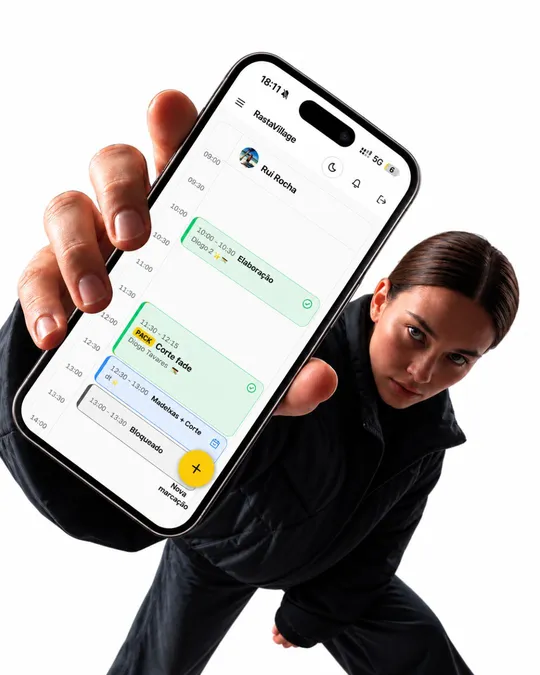
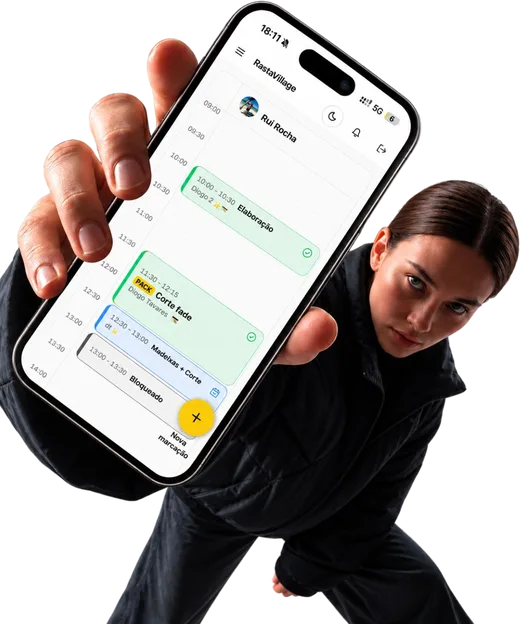
Site: as duas secções sem caixa — a fotografia recortada assenta no fundo; os dois tipos sem cartão nem desconto, com «dois tipos, uma conta»
Claude-Session: https://claude.ai/code/session_01ESiyGJ3vPYy4diqd7vefik

diff --git a/src/index.css b/src/index.css
@@ -1672,29 +1672,28 @@ html, body {
 /* Dois tipos no mesmo espaço: o bloco a seguir aos planos. */
 .pd-misto { margin-top: 10px; }
 .pd-misto a { color: var(--cv-ink); border-bottom: 1px solid var(--cv-linha); text-decoration: none; }
-/* Dois tipos no mesmo espaço: barbearia + salão = uma app. */
-.dt { scroll-margin-top: 90px; margin-top: 44px; padding: 36px 24px; border-radius: 24px; background: var(--cv-card); border: 1px solid var(--cv-linha); }
+/* Dois tipos no mesmo espaço: barbearia + salão = uma app. Sem caixa: assenta no fundo da página. */
+.dt { scroll-margin-top: 90px; margin-top: 72px; padding: 8px 0 0; }
 .dt-titulo { text-align: center; margin: 0 auto; max-width: 18ch; }
-.dt-conta { display: flex; align-items: flex-start; justify-content: center; gap: 22px; margin-top: 34px; flex-wrap: wrap; }
-.dt-app { margin: 0; display: flex; flex-direction: column; align-items: center; gap: 12px; width: 150px; text-align: center; }
-.dt-icone { width: 118px; height: 118px; border-radius: 27px; box-shadow: 0 18px 40px -18px rgba(0,0,0,.45); display: block; }
-.dt-app figcaption { display: grid; gap: 3px; }
-.dt-app figcaption b { font-size: 1rem; color: var(--cv-ink); }
-.dt-app figcaption span { font-size: .85rem; color: var(--cv-ink-3); }
-.dt-sinal { font-family: var(--font-heading); font-size: 2.8rem; color: var(--cv-ink-3); line-height: 118px; }
-.dt-resultado { width: 190px; padding: 18px 14px 16px; border-radius: 24px; background: var(--cv-amarelo); }
-.dt-resultado .dt-icone { box-shadow: 0 18px 40px -16px rgba(0,0,0,.6); }
-.dt-resultado figcaption b { font-size: 1.1rem; color: #111; }
-.dt-desconto { margin-top: 6px; padding: 6px 12px; border-radius: 999px; background: #111; color: #fff !important; font-weight: 700; font-size: .82rem !important; white-space: nowrap; }
-.dt-texto { text-align: center; margin: 26px auto 0; max-width: 58ch; }
-.dt-cta { display: inline-flex; padding: 13px 22px; border-radius: 999px; background: var(--cv-ink); color: var(--cv-card); font-weight: 700; text-decoration: none; }
+.dt-conta { display: flex; align-items: flex-start; justify-content: center; gap: 28px; margin-top: 44px; flex-wrap: wrap; }
+.dt-app { margin: 0; display: flex; flex-direction: column; align-items: center; gap: 14px; width: 190px; text-align: center; }
+.dt-icone { width: 150px; height: 150px; border-radius: 34px; box-shadow: 0 20px 44px -22px rgba(0,0,0,.4); display: block; }
+.dt-app figcaption { display: grid; gap: 4px; }
+.dt-app figcaption b { font-size: 1.15rem; color: var(--cv-ink); }
+.dt-app figcaption span { font-size: .95rem; color: var(--cv-ink-3); }
+.dt-sinal { font-family: var(--font-heading); font-size: 3rem; color: var(--cv-ink-3); line-height: 150px; }
+.dt-resultado .dt-icone { width: 164px; height: 164px; border-radius: 37px; box-shadow: 0 24px 50px -22px rgba(0,0,0,.55); }
+.dt-texto { text-align: center; margin: 44px auto 0; max-width: 60ch; }
+.dt-cta { display: inline-flex; align-items: center; gap: 10px; padding: 15px 26px; border-radius: 999px; background: var(--cv-ink); color: var(--cv-card); font-weight: 700; text-decoration: none; }
 @media (max-width: 640px) {
-  .dt { padding: 26px 16px; }
-  .dt-conta { gap: 8px; }
-  .dt-app { width: 104px; }
-  .dt-icone { width: 84px; height: 84px; border-radius: 19px; }
-  .dt-sinal { font-size: 2rem; line-height: 84px; }
-  .dt-resultado { flex-basis: 100%; width: auto; max-width: 260px; margin: 8px auto 0; }
+  .dt { margin-top: 52px; }
+  .dt-conta { gap: 10px; }
+  .dt-app { width: 118px; }
+  .dt-icone { width: 92px; height: 92px; border-radius: 21px; }
+  .dt-sinal { font-size: 2rem; line-height: 92px; }
+  .dt-resultado { flex-basis: 100%; margin-top: 6px; width: auto; }
+  .dt-resultado .dt-icone { width: 104px; height: 104px; border-radius: 24px; }
+  .dt-texto br { display: none; }
 }
 .cv-planos > div { display: flex; }
 .cv-planos > div > div { width: 100%; }
@@ -1754,16 +1753,17 @@ html, body {
 
 /* ── As duas portas para a demonstração ────────────────────────────────── */
 /* Montar o meu negócio: o apelo com a fotografia (AcessoTotal.jsx). */
-.mn { position: relative; display: grid; grid-template-columns: minmax(0, 1.05fr) minmax(0, 1fr); align-items: center; gap: 24px; margin-top: 56px; padding: 44px 0 0 48px; border-radius: 28px; background: #FEFEFE; border: 1px solid var(--cv-linha); overflow: hidden; }
-.mn-texto { padding-bottom: 44px; }
+/* Sem caixa: a fotografia e recortada (fundo transparente) e assenta no fundo da pagina. */
+.mn { position: relative; display: grid; grid-template-columns: minmax(0, 1.05fr) minmax(0, 1fr); align-items: center; gap: 24px; margin-top: 56px; padding: 24px 0 0; }
+.mn-texto { padding-bottom: 24px; }
 .mn-titulo { font-family: var(--font-heading); font-size: clamp(2.4rem, 5.2vw, 4.4rem); line-height: 1.02; letter-spacing: -0.02em; margin: 14px 0 18px; color: var(--cv-ink); text-wrap: balance; }
 .mn-sub { max-width: 34ch; margin: 0 0 28px; }
 .mn-accoes { display: flex; align-items: center; gap: 22px; flex-wrap: wrap; }
 .mn-ver { display: inline-flex; align-items: center; gap: 6px; color: var(--cv-ink-2); font-weight: 600; text-decoration: none; border-bottom: 1px solid var(--cv-linha); }
 .mn-ver:hover { color: var(--cv-ink); }
-.mn-foto { display: block; width: 100%; max-width: 520px; height: auto; justify-self: end; align-self: end; }
+.mn-foto { display: block; width: 100%; max-width: 540px; height: auto; justify-self: end; align-self: end; filter: drop-shadow(0 30px 40px rgba(0,0,0,.14)); }
 @media (max-width: 860px) {
-  .mn { grid-template-columns: 1fr; padding: 32px 22px 0; gap: 8px; }
+  .mn { grid-template-columns: 1fr; padding: 16px 0 0; gap: 8px; }
   .mn-texto { padding-bottom: 8px; }
   .mn-foto { max-width: 420px; justify-self: center; }
 }

diff --git a/src/components/DoisTipos.jsx b/src/components/DoisTipos.jsx
@@ -1,7 +1,7 @@
 import React from "react";
 import { motion } from "framer-motion";
 import { Link } from "react-router-dom";
-import { PLANOS, ADICIONAL_SEGUNDO_NICHO_TEXTO } from "@/lib/seo";
+import { ArrowRight } from "lucide-react";
 
 /*
  * DOIS TIPOS NO MESMO ESPAÇO (12/10/2026).
@@ -27,10 +27,7 @@ function Icone({ src, nome, legenda, i }) {
   );
 }
 
-export default function DoisTipos({ anual = false }) {
-  const pl = PLANOS.find(p => p.destaque) || PLANOS[1];
-  const base = anual ? pl.precoMesAnualTexto : pl.precoTexto;
-  const total = anual ? pl.precoMesAnualMistoTexto : pl.precoMistoTexto;
+export default function DoisTipos() {
   return (
     <section id="misto" className="dt" aria-labelledby="dt-titulo">
       <p className="cv-olho" style={{ textAlign: "center", marginBottom: 12 }}>Dois tipos no mesmo espaço</p>
@@ -45,17 +42,16 @@ export default function DoisTipos({ anual = false }) {
         <motion.span className="dt-sinal" aria-hidden="true" {...entrada(3)}>=</motion.span>
         <motion.figure className="dt-app dt-resultado" {...entrada(4)}>
           <img className="dt-icone" src="/dois-tipos/convecta.png" alt="Ícone da app Convecta" width="512" height="512" loading="lazy" />
-          <figcaption><b>1 app de gestão</b><span className="dt-desconto">−50 % no segundo tipo</span></figcaption>
+          <figcaption><b>1 app de gestão</b><span>dois tipos, uma conta</span></figcaption>
         </motion.figure>
       </div>
 
       <p className="cv-texto dt-texto">
-        O site tem duas frentes — o cliente escolhe se vem ao barbeiro ou ao salão. No painel geres cada lado à parte,
-        com a mesma conta. Pagas o teu plano mais {ADICIONAL_SEGUNDO_NICHO_TEXTO} pelo segundo tipo:
-        no {pl.nome}, {base} + metade = <strong>{total}/mês</strong>.
+        O site tem duas frentes — o cliente escolhe se vem ao barbeiro ou ao salão.<br />
+        No painel geres cada lado à parte, com a mesma conta.
       </p>
-      <div style={{ textAlign: "center", marginTop: 18 }}>
-        <Link to="/comecar" className="dt-cta">Criar a conta com dois tipos</Link>
+      <div style={{ textAlign: "center", marginTop: 26 }}>
+        <Link to="/comecar" className="dt-cta">Criar a conta com dois tipos <ArrowRight size={18} /></Link>
       </div>
     </section>
   );

diff --git a/src/components/AcessoTotal.jsx b/src/components/AcessoTotal.jsx
@@ -11,8 +11,8 @@ import BotaoComecar from "@/components/BotaoComecar";
  * Passa a ser um só apelo, com uma fotografia: a barbeira a mostrar o
  * painel no telemóvel, o título grande e o botão de começar grátis. A
  * porta das funcionalidades fica como linha de texto por baixo do botão.
- * A fotografia tem fundo #FEFEFE; o painel leva a mesma cor para a foto
- * não aparecer como um retângulo.
+ * Sem caixa (pedido do Diogo): a fotografia é recortada, com fundo
+ * transparente, e assenta no fundo da página.
  */
 export default function AcessoTotal() {
   return (
@@ -29,7 +29,7 @@ export default function AcessoTotal() {
             </div>
           </div>
           <img className="mn-foto" src="/montar-o-meu-negocio.webp" srcSet="/montar-o-meu-negocio-540.webp 540w, /montar-o-meu-negocio.webp 1080w"
-            sizes="(max-width: 720px) 90vw, 520px" width="1080" height="1350" loading="lazy"
+            sizes="(max-width: 720px) 90vw, 520px" width="1040" height="1248" loading="lazy"
             alt="Uma profissional a mostrar a agenda do dia no painel da Convecta, no telemóvel" />
         </div>
       </ScrollReveal>

diff --git a/src/components/PricingSection.jsx b/src/components/PricingSection.jsx
@@ -239,7 +239,7 @@ export default function PricingSection({ nivelTitulo = "h2" }) {
         </div>
 
         {/* Os dois tipos no mesmo espaço: secção própria a seguir aos planos (DoisTipos.jsx). */}
-        <DoisTipos anual={anual} />
+        <DoisTipos />
 
         {/* A ancora. 19,99 € e abstracto; "um corte por mes" e uma conta que
             qualquer barbeiro faz de cabeca — e que lhe da razao para pagar. */}
